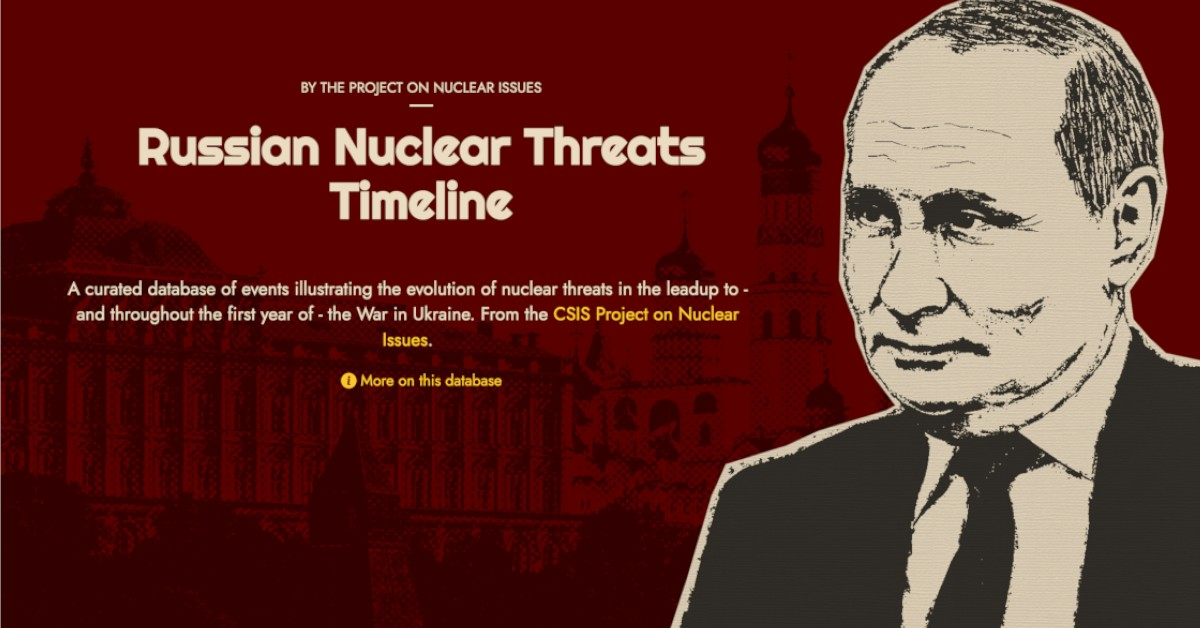
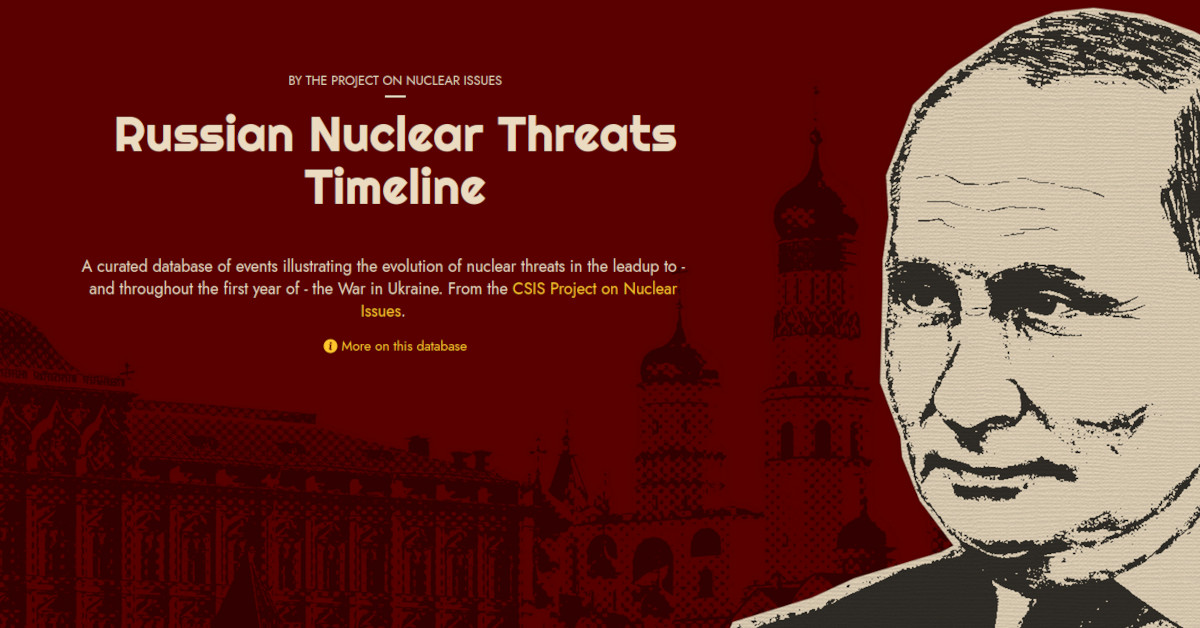
Updated og image and description

diff --git a/public/index.html b/public/index.html
@@ -6,7 +6,7 @@
 
 	<title>Russian Nuclear Threats Timeline | CSIS Project on Nuclear Issues</title>
   <meta name="description"
-    content="A curated database of state-level activities facilitating emissions reductions, positive economic outcomes, and climate resilience—from the Clean Resilient States Initiative, created by the CSIS Energy Security & Climate Change Program."
+    content="A curated database of events illustrating the evolution of nuclear threats in the leadup to and throughout the first year of the War in Ukraine."
   />
 
 	<link rel='icon' type='image/png' href='/favicon.ico'>
@@ -17,13 +17,13 @@
   <meta property="og:type" content="website"/>
   <meta property="og:title" content="Russian Nuclear Threats Timeline | CSIS Project on Nuclear Issues"/>
   <meta property="og:description"
-    content="A curated database of state-level activities facilitating emissions reductions, positive economic outcomes, and climate resilience—from the Clean Resilient States Initiative, created by the CSIS Energy Security & Climate Change Program."/>
-  <!-- <meta property="og:image" content="https://raw.githubusercontent.com/CSIS-iLab/energy-database/main/public/TP-cover.jpg"/> -->
+    content="A curated database of events illustrating the evolution of nuclear threats in the leadup to and throughout the first year of the War in Ukraine."/>
+  <meta property="og:image" content="https://raw.githubusercontent.com/CSIS-iLab/poni-table/main/public/TP-cover.jpg"/>
   <meta property="twitter:title" content="Russian Nuclear Threats Timeline | CSIS Project on Nuclear Issues"/>
   <meta property="twitter:card" content="summary_large_image"/>
   <meta property="twitter:description"
-    content="A curated database of state-level activities facilitating emissions reductions, positive economic outcomes, and climate resilience—from the Clean Resilient States Initiative, created by the CSIS Energy Security & Climate Change Program."/>
-  <!-- <meta property="twitter:image" content="https://raw.githubusercontent.com/CSIS-iLab/energy-database/main/public/TP-cover.jpg"/> -->
+    content="A curated database of events illustrating the evolution of nuclear threats in the leadup to and throughout the first year of the War in Ukraine."/>
+  <meta property="twitter:image" content="https://raw.githubusercontent.com/CSIS-iLab/poni-table/main/public/TP-cover.jpg"/>
 
 	<link rel='stylesheet' href='/build/bundle.css'/>
 
